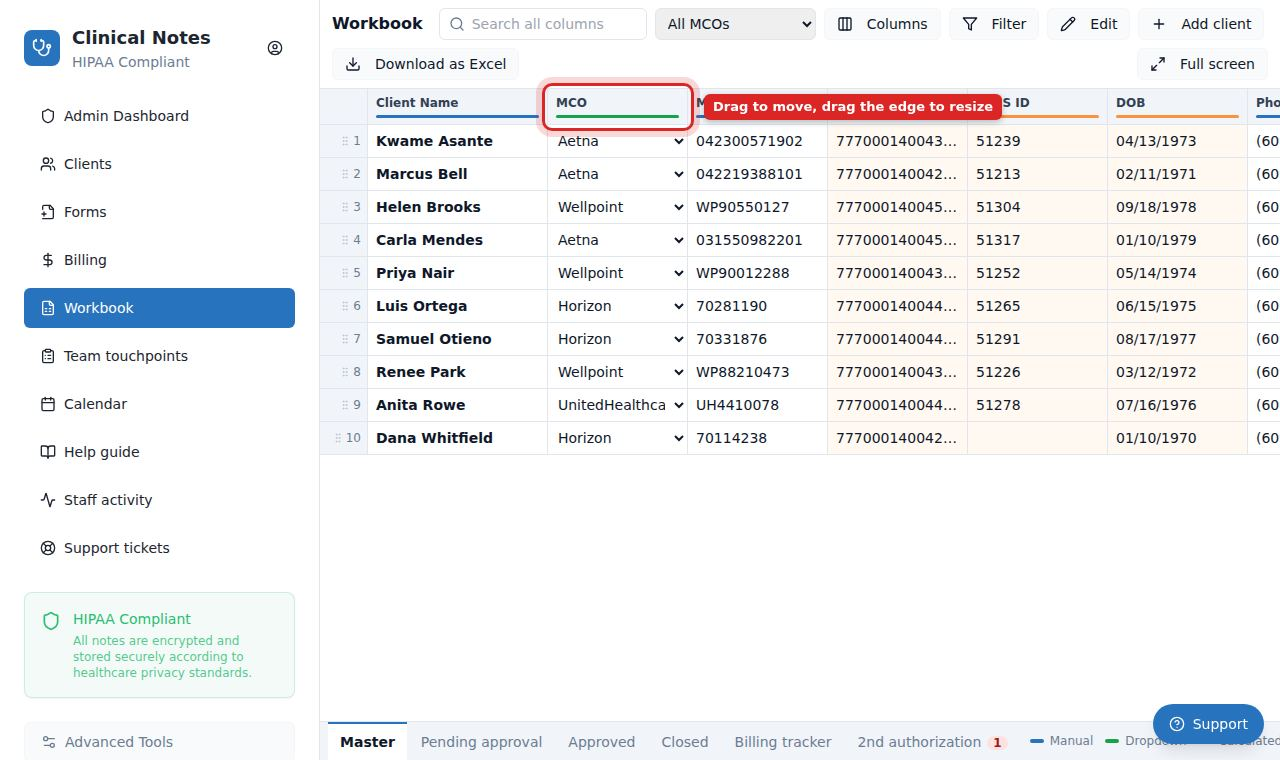
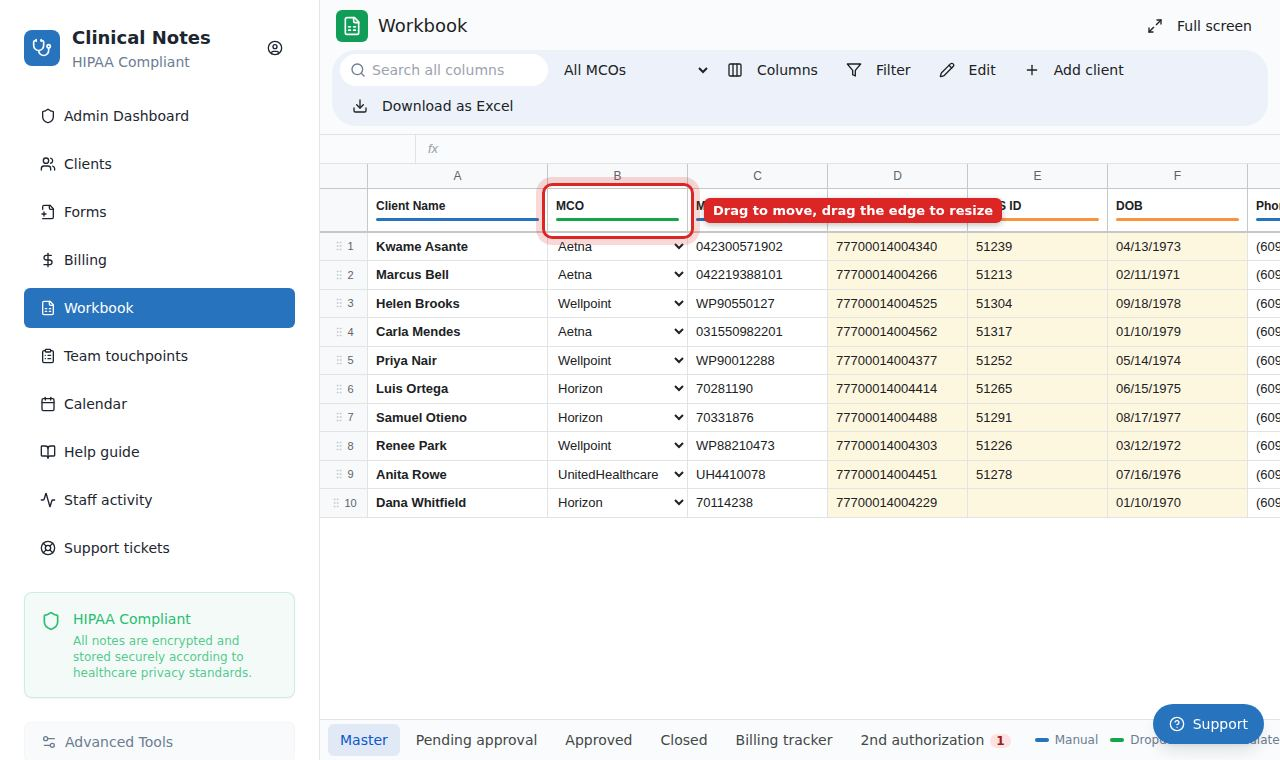
Workbook looks like Google Sheets
Column letters and a grey row-number gutter, thin grey gridlines, Arial
at Sheets' size, a rounded toolbar, a name box and formula bar for the
selected cell, a blue selected-cell outline with its column letter and
row number highlighted, and Sheets-style tabs. Help guide screenshots
retaken.

Claude-Session: https://claude.ai/code/session_012TZTkqWFZbcufo1uEC7hhK

diff --git a/src/components/billing/workbook/BillingWorkbook.tsx b/src/components/billing/workbook/BillingWorkbook.tsx
@@ -17,6 +17,7 @@ import {
   Columns3,
   Download,
   ExternalLink,
+  FileSpreadsheet,
   Filter,
   GripVertical,
   Loader2,
@@ -171,14 +172,14 @@ const Cell: React.FC<{
   const tone = col.kind === 'auto' ? 'text-muted-foreground' : '';
 
   if (col.kind === 'auto' || (!col.field && col.key !== 'name')) {
-    return <div className={`min-h-[32px] truncate px-2 py-1.5 ${tone}`} title={shown(col, value)}>{shown(col, value)}</div>;
+    return <div className={`min-h-[26px] truncate px-2 py-1 ${tone}`} title={shown(col, value)}>{shown(col, value)}</div>;
   }
 
   if (col.kind === 'drop') {
     const options = col.options ?? [];
     return (
       <select
-        className="h-full w-full cursor-pointer bg-transparent px-1.5 py-1.5 outline-none focus:ring-2 focus:ring-inset focus:ring-primary"
+        className="h-full w-full cursor-pointer bg-transparent px-1.5 py-1 outline-none focus:ring-2 focus:ring-inset focus:ring-[#1a73e8]"
         value={value}
         onChange={(e) => onSave(e.target.value)}
         aria-label={col.label}
@@ -198,7 +199,7 @@ const Cell: React.FC<{
     return (
       <button
         type="button"
-        className={`block min-h-[32px] w-full cursor-text truncate px-2 py-1.5 text-left hover:ring-1 hover:ring-inset hover:ring-primary/40 ${tone}`}
+        className={`block min-h-[26px] w-full cursor-cell truncate px-2 py-1 text-left ${tone}`}
         title={`${shown(col, value) || ''}${value ? '\n' : ''}${KIND_TIP[col.kind]}`}
         onClick={() => setEditing(true)}
       >
@@ -215,7 +216,7 @@ const Cell: React.FC<{
     <input
       autoFocus
       type={col.type === 'date' ? 'date' : 'text'}
-      className="h-full w-full bg-white px-2 py-1 outline-none ring-2 ring-inset ring-primary"
+      className="h-full w-full bg-white px-2 py-1 outline-none ring-2 ring-inset ring-[#1a73e8]"
       value={draft}
       onChange={(e) => setDraft(e.target.value)}
       onBlur={commit}
@@ -238,12 +239,36 @@ interface Props {
   onChanged: () => void;
 }
 
+/** Toolbar buttons: flat and round, as in Google Sheets; TOOL_ON marks one that is switched on. */
+const TOOL = 'h-8 rounded-full px-3 hover:bg-[#dde3ea]';
+const TOOL_ON = 'bg-[#c2e7ff] text-[#001d35] hover:bg-[#b3dcf7]';
+
+/** Google Sheets' default cell font. */
+const SHEET_FONT = 'Arial, Helvetica, sans-serif';
+/** Heights of the letters row and the headings row, which both stay put while scrolling. */
+const LETTER_H = 22;
+const HEAD_H = 44;
+
+/** A, B, … Z, AA, AB, … like a spreadsheet's column letters. */
+function columnLetter(i: number): string {
+  let n = i + 1;
+  let out = '';
+  while (n > 0) {
+    const r = (n - 1) % 26;
+    out = String.fromCharCode(65 + r) + out;
+    n = Math.floor((n - 1) / 26);
+  }
+  return out;
+}
+
 /** Stands for an empty cell in a column filter. */
 const BLANK = '__blank__';
 
 export const BillingWorkbook: React.FC<Props> = ({ cycles, onChanged }) => {
   // Its own page beside the left menu, or the whole screen when there is a lot to see.
   const [fullScreen, setFullScreen] = useState(false);
+  // The selected cell, shown in the name box and formula bar.
+  const [active, setActive] = useState<{ row: string; col: string } | null>(null);
   const [clients, setClients] = useState<WbClient[] | null>(null);
   const [secondAuthIds, setSecondAuthIds] = useState<Set<string>>(new Set());
   const [lastContact, setLastContact] = useState<Map<string, string>>(new Map());
@@ -584,15 +609,45 @@ export const BillingWorkbook: React.FC<Props> = ({ cycles, onChanged }) => {
 
   // ---- render --------------------------------------------------------
 
-  const th = 'sticky top-0 z-10 border-b border-r bg-slate-100 px-2 py-1.5 text-left text-xs font-semibold text-slate-700';
-  const td = 'border-b border-r p-0 align-middle';
+  // Google Sheets' look: grey headers and gutter, thin grey gridlines.
+  const th = 'sticky top-0 z-10 border-b border-r border-[#c7c7c7] bg-[#f8f9fa] px-2 py-1 text-left text-xs font-bold text-[#202124]';
+  const td = 'border-b border-r border-[#e2e3e3] p-0 align-middle';
+  const gutter = 'bg-[#f8f9fa] text-center text-[11px] text-[#5f6368]';
+  const picked = 'bg-[#d3e3fd] font-semibold text-[#0b57d0]';
   const us = (v: string | null) => shown({ type: 'date' }, v ?? '');
 
+  // The name box and formula bar: which cell is selected, and what it holds.
+  const activeCol = active ? columns.findIndex((c) => c.key === active.col) : -1;
+  const activeRowIndex = active ? rows.findIndex((c) => c.id === active.row) : -1;
+  const activeRef = activeCol >= 0 && activeRowIndex >= 0 ? `${columnLetter(activeCol)}${activeRowIndex + 1}` : '';
+  const activeValue = (() => {
+    if (!activeRef) return '';
+    const client = rows[activeRowIndex];
+    const col = columns[activeCol];
+    return shown(col, col.value(client, extraOf(client)));
+  })();
+
   const masterGrid = (
-    <table className="border-separate border-spacing-0 text-sm" style={{ tableLayout: 'fixed', width: 'max-content' }}>
+    <table
+      className="border-separate border-spacing-0 text-[13px] text-[#202124]"
+      style={{ tableLayout: 'fixed', width: 'max-content', fontFamily: SHEET_FONT }}
+    >
       <thead>
+        {/* Column letters, as in a spreadsheet. */}
         <tr>
-          <th className={`${th} sticky left-0 z-30 w-[48px] min-w-[48px] max-w-[48px] text-right`} />
+          <th className={`${th} ${gutter} sticky left-0 z-30 w-[48px] min-w-[48px] max-w-[48px] p-0`} style={{ height: LETTER_H }} />
+          {columns.map((col, j) => (
+            <th
+              key={col.key}
+              className={`${th} ${gutter} p-0 font-normal ${col.key === 'name' ? 'sticky left-12 z-20' : ''} ${activeCol === j ? picked : ''}`}
+              style={{ height: LETTER_H }}
+            >
+              {columnLetter(j)}
+            </th>
+          ))}
+        </tr>
+        <tr>
+          <th className={`${th} ${gutter} sticky left-0 z-30 w-[48px] min-w-[48px] max-w-[48px] border-b-2`} style={{ top: LETTER_H, height: HEAD_H }} />
           {columns.map((col) => {
             const w = widthOf(col);
             const isName = col.key === 'name';
@@ -617,8 +672,8 @@ export const BillingWorkbook: React.FC<Props> = ({ cycles, onChanged }) => {
                   setDragOver(null);
                 }}
                 title={`${KIND_TIP[col.kind]}${isName ? '' : '\nDrag to move.'}`}
-                className={`${th} relative ${isName ? 'sticky left-12 z-20' : 'cursor-grab'} ${dragOver === `c:${col.key}` ? 'shadow-[inset_3px_0_0_hsl(var(--primary))]' : ''}`}
-                style={{ width: w, minWidth: w, maxWidth: w }}
+                className={`${th} relative border-b-2 bg-white ${isName ? 'sticky left-12 z-20' : 'cursor-grab'} ${dragOver === `c:${col.key}` ? 'shadow-[inset_3px_0_0_#1a73e8]' : ''}`}
+                style={{ width: w, minWidth: w, maxWidth: w, top: LETTER_H, height: HEAD_H }}
               >
                 <span className="block truncate pr-4">{col.label}</span>
                 <span className={`mt-1 block h-[3px] rounded ${KIND_BAR[col.kind]}`} />
@@ -633,7 +688,7 @@ export const BillingWorkbook: React.FC<Props> = ({ cycles, onChanged }) => {
                   </button>
                 )}
                 <span
-                  className="absolute -right-1 top-0 z-10 h-full w-2 cursor-col-resize hover:bg-primary/40"
+                  className="absolute -right-1 top-0 z-10 h-full w-2 cursor-col-resize hover:bg-[#1a73e8]/50"
                   onPointerDown={(e) => startResize(e, 'col', col.key, w)}
                   title="Drag to resize"
                 />
@@ -643,11 +698,12 @@ export const BillingWorkbook: React.FC<Props> = ({ cycles, onChanged }) => {
         </tr>
         {showFilters && (
           <tr>
-            <th className={`${th} sticky left-0 top-[42px] z-30 bg-white`} />
+            <th className={`${th} sticky left-0 z-30 bg-white`} style={{ top: LETTER_H + HEAD_H }} />
             {columns.map((col) => (
               <th
                 key={col.key}
-                className={`${th} top-[42px] bg-white font-normal ${col.key === 'name' ? 'sticky left-12 z-20' : ''}`}
+                className={`${th} bg-white font-normal ${col.key === 'name' ? 'sticky left-12 z-20' : ''}`}
+                style={{ top: LETTER_H + HEAD_H }}
               >
                 <select
                   className={`w-full rounded border bg-white px-1 py-0.5 text-xs ${filters[col.key] ? 'border-primary font-semibold text-primary' : ''}`}
@@ -686,10 +742,10 @@ export const BillingWorkbook: React.FC<Props> = ({ cycles, onChanged }) => {
                 dragRow.current = null;
                 setDragOver(null);
               }}
-              className={dragOver === `r:${c.id}` ? '[&>td]:shadow-[inset_0_3px_0_hsl(var(--primary))]' : 'hover:bg-sky-50/40'}
+              className={dragOver === `r:${c.id}` ? '[&>td]:shadow-[inset_0_3px_0_#1a73e8]' : ''}
             >
               <td
-                className={`${td} sticky left-0 z-10 w-[48px] min-w-[48px] max-w-[48px] bg-slate-100 text-right text-xs text-muted-foreground`}
+                className={`${td} ${gutter} sticky left-0 z-10 w-[48px] min-w-[48px] max-w-[48px] border-[#c7c7c7] ${active?.row === c.id ? picked : ''}`}
                 draggable={!editMode}
                 onDragStart={() => (dragRow.current = c.id)}
                 onDragEnd={() => {
@@ -698,7 +754,7 @@ export const BillingWorkbook: React.FC<Props> = ({ cycles, onChanged }) => {
                 }}
                 title={editMode ? 'Delete this client' : 'Drag to move this row'}
               >
-                <div className="relative flex h-full items-center justify-end gap-0.5 px-1.5">
+                <div className="relative flex h-full items-center justify-center gap-0.5 px-1.5">
                   {editMode ? (
                     <button
                       className="grid h-5 w-5 place-items-center rounded border border-red-300 bg-red-50 text-red-700"
@@ -709,12 +765,12 @@ export const BillingWorkbook: React.FC<Props> = ({ cycles, onChanged }) => {
                     </button>
                   ) : (
                     <>
-                      <GripVertical className="h-3 w-3 cursor-grab opacity-40" />
+                      <GripVertical className="h-3 w-3 cursor-grab opacity-30" />
                       {i + 1}
                     </>
                   )}
                   <span
-                    className="absolute -bottom-1 left-0 right-0 z-10 h-2 cursor-row-resize hover:bg-primary/40"
+                    className="absolute -bottom-1 left-0 right-0 z-10 h-2 cursor-row-resize hover:bg-[#1a73e8]/50"
                     onPointerDown={(e) => startResize(e, 'row', c.id, (e.currentTarget.closest('tr') as HTMLElement).getBoundingClientRect().height)}
                     title="Drag to resize"
                   />
@@ -723,10 +779,13 @@ export const BillingWorkbook: React.FC<Props> = ({ cycles, onChanged }) => {
               {columns.map((col) => {
                 const w = widthOf(col);
                 const isName = col.key === 'name';
+                const isActive = active?.row === c.id && active.col === col.key;
                 return (
                   <td
                     key={col.key}
-                    className={`${td} ${isName ? 'sticky left-12 z-10 bg-white font-semibold' : col.kind === 'auto' ? 'bg-slate-50' : col.kind === 'docs' ? 'bg-orange-50/70' : ''}`}
+                    onMouseDown={() => setActive({ row: c.id, col: col.key })}
+                    onFocus={() => setActive({ row: c.id, col: col.key })}
+                    className={`${td} ${isName ? 'sticky left-12 z-10 bg-white font-semibold' : col.kind === 'auto' ? 'bg-[#f8f9fa] text-[#5f6368]' : col.kind === 'docs' ? 'bg-[#fef7e0]' : 'bg-white'} ${isActive ? 'relative shadow-[inset_0_0_0_2px_#1a73e8]' : ''}`}
                     style={{ width: w, minWidth: w, maxWidth: w }}
                   >
                     <Cell col={col} value={col.value(c, x)} onSave={(v) => void save(c, col, v)} />
@@ -857,21 +916,38 @@ export const BillingWorkbook: React.FC<Props> = ({ cycles, onChanged }) => {
   const master = !['tracker', 'second'].includes(sheet);
 
   return (
-    <div className={`flex flex-col bg-white text-slate-900 ${fullScreen ? 'fixed inset-0 z-50' : 'h-full'}`}>
+    <div className={`flex flex-col bg-[#f9fbfd] text-[#202124] ${fullScreen ? 'fixed inset-0 z-50' : 'h-full'}`}>
       {/* Toolbar */}
-      <div className="flex flex-wrap items-center gap-2 border-b px-3 py-2">
-        <div className="mr-2 font-semibold">Workbook</div>
+      <div className="shrink-0 border-b border-[#e2e3e3] px-3 pb-2 pt-2.5">
+        <div className="mb-2 flex items-center gap-2.5 px-1">
+          <span className="grid h-8 w-8 place-items-center rounded-md bg-[#0f9d58] text-white">
+            <FileSpreadsheet className="h-5 w-5" />
+          </span>
+          <span className="text-lg text-[#1f1f1f]">Workbook</span>
+          <Button
+            size="sm"
+            variant="ghost"
+            className={`${TOOL} ml-auto ${fullScreen ? TOOL_ON : ''}`}
+            onClick={() => setFullScreen((v) => !v)}
+            title={fullScreen ? 'Exit full screen (Esc)' : 'Full screen'}
+          >
+            {fullScreen ? <Minimize2 className="mr-1.5 h-4 w-4" /> : <Maximize2 className="mr-1.5 h-4 w-4" />}
+            {fullScreen ? 'Exit full screen' : 'Full screen'}
+          </Button>
+        </div>
+        {/* One rounded toolbar, as in Google Sheets. */}
+        <div className="flex flex-wrap items-center gap-1 rounded-3xl bg-[#edf2fa] px-2 py-1">
         <div className="relative">
           <Search className="absolute left-2.5 top-1/2 h-4 w-4 -translate-y-1/2 text-muted-foreground" />
           <input
-            className="h-8 w-52 rounded-md border pl-8 pr-2 text-sm"
+            className="h-8 w-52 rounded-full border-0 bg-white pl-8 pr-3 text-sm outline-none focus:ring-2 focus:ring-[#1a73e8]"
             placeholder="Search all columns"
             aria-label="Search all columns"
             value={query}
             onChange={(e) => setQuery(e.target.value)}
           />
         </div>
-        <select className="h-8 rounded-md border px-2 text-sm" value={mco} onChange={(e) => setMco(e.target.value)} aria-label="Filter by MCO">
+        <select className="h-8 rounded-full border-0 bg-transparent px-2 text-sm hover:bg-[#dde3ea]" value={mco} onChange={(e) => setMco(e.target.value)} aria-label="Filter by MCO">
           <option value="">All MCOs</option>
           {MCO_OPTIONS.map((m) => (
             <option key={m}>{m}</option>
@@ -880,7 +956,7 @@ export const BillingWorkbook: React.FC<Props> = ({ cycles, onChanged }) => {
         {master && (
           <>
             <div className="relative">
-              <Button size="sm" variant="outline" className="h-8" onClick={() => setColumnsOpen((v) => !v)} aria-expanded={columnsOpen}>
+              <Button size="sm" variant="ghost" className={TOOL} onClick={() => setColumnsOpen((v) => !v)} aria-expanded={columnsOpen}>
                 <Columns3 className="mr-1.5 h-4 w-4" />
                 Columns
               </Button>
@@ -925,8 +1001,8 @@ export const BillingWorkbook: React.FC<Props> = ({ cycles, onChanged }) => {
             </div>
             <Button
               size="sm"
-              variant={showFilters ? 'default' : 'outline'}
-              className="h-8"
+              variant="ghost"
+              className={`${TOOL} ${showFilters ? TOOL_ON : ''}`}
               onClick={() => {
                 if (showFilters) setFilters({});
                 setShowFilters((v) => !v);
@@ -935,17 +1011,17 @@ export const BillingWorkbook: React.FC<Props> = ({ cycles, onChanged }) => {
               <Filter className="mr-1.5 h-4 w-4" />
               Filter
             </Button>
-            <Button size="sm" variant={editMode ? 'default' : 'outline'} className="h-8" onClick={() => setEditMode((v) => !v)}>
+            <Button size="sm" variant="ghost" className={`${TOOL} ${editMode ? TOOL_ON : ''}`} onClick={() => setEditMode((v) => !v)}>
               {editMode ? <Check className="mr-1.5 h-4 w-4" /> : <Pencil className="mr-1.5 h-4 w-4" />}
               {editMode ? 'Done editing' : 'Edit'}
             </Button>
-            <Button size="sm" variant="outline" className="h-8" onClick={() => void addClient()}>
+            <Button size="sm" variant="ghost" className={TOOL} onClick={() => void addClient()}>
               <Plus className="mr-1.5 h-4 w-4" />
               Add client
             </Button>
           </>
         )}
-        <Button size="sm" variant="outline" className="h-8" onClick={download} disabled={!clients}>
+        <Button size="sm" variant="ghost" className={TOOL} onClick={download} disabled={!clients}>
           <Download className="mr-1.5 h-4 w-4" />
           Download as Excel
         </Button>
@@ -955,16 +1031,14 @@ export const BillingWorkbook: React.FC<Props> = ({ cycles, onChanged }) => {
             Saving
           </span>
         )}
-        <Button
-          size="sm"
-          variant={fullScreen ? 'default' : 'outline'}
-          className="ml-auto h-8"
-          onClick={() => setFullScreen((v) => !v)}
-          title={fullScreen ? 'Exit full screen (Esc)' : 'Full screen'}
-        >
-          {fullScreen ? <Minimize2 className="mr-1.5 h-4 w-4" /> : <Maximize2 className="mr-1.5 h-4 w-4" />}
-          {fullScreen ? 'Exit full screen' : 'Full screen'}
-        </Button>
+        </div>
+      </div>
+
+      {/* Name box and formula bar: the selected cell and what it holds. */}
+      <div className="flex shrink-0 items-center border-b border-[#e2e3e3] text-[13px]" style={{ fontFamily: SHEET_FONT }}>
+        <div className="w-24 shrink-0 border-r border-[#e2e3e3] px-3 py-1 text-[#444746]">{activeRef || '\u00a0'}</div>
+        <div className="px-3 py-1 italic text-[#9aa0a6]">fx</div>
+        <div className="min-w-0 flex-1 truncate py-1 pr-3 text-[#202124]">{activeValue}</div>
       </div>
 
       {sheet === 'tracker' && (
@@ -979,7 +1053,7 @@ export const BillingWorkbook: React.FC<Props> = ({ cycles, onChanged }) => {
       )}
 
       {/* Grid */}
-      <div className="min-h-0 flex-1 overflow-auto" onClick={() => columnsOpen && setColumnsOpen(false)}>
+      <div className="min-h-0 flex-1 overflow-auto bg-white" onClick={() => columnsOpen && setColumnsOpen(false)}>
         {clients === null ? (
           <div className="flex items-center gap-2 p-6 text-sm text-muted-foreground">
             <Loader2 className="h-4 w-4 animate-spin" />
@@ -995,13 +1069,13 @@ export const BillingWorkbook: React.FC<Props> = ({ cycles, onChanged }) => {
       </div>
 
       {/* Tabs, along the bottom like a spreadsheet. Double-click to rename. */}
-      <div className="flex shrink-0 gap-0.5 overflow-x-auto border-t bg-slate-100 px-2" role="tablist" aria-label="Workbook tabs">
+      <div className="flex shrink-0 items-center gap-1 overflow-x-auto border-t border-[#e2e3e3] bg-[#f9fbfd] px-2 py-1" role="tablist" aria-label="Workbook tabs">
         {SHEETS.map((s) =>
           renaming === s.key ? (
             <input
               key={s.key}
               autoFocus
-              className="my-1 w-40 rounded border border-primary px-2 text-sm"
+              className="w-40 rounded-md border border-[#1a73e8] px-2 py-1 text-sm"
               defaultValue={sheetName(s.key)}
               aria-label="Rename tab"
               onFocus={(e) => e.currentTarget.select()}
@@ -1023,7 +1097,7 @@ export const BillingWorkbook: React.FC<Props> = ({ cycles, onChanged }) => {
               title="Double-click to rename"
               onClick={() => setSheet(s.key)}
               onDoubleClick={() => setRenaming(s.key)}
-              className={`whitespace-nowrap border-t-2 px-3 py-2 text-sm ${sheet === s.key ? 'border-primary bg-white font-semibold' : 'border-transparent text-muted-foreground hover:text-foreground'}`}
+              className={`whitespace-nowrap rounded-md px-3 py-1.5 text-sm ${sheet === s.key ? 'bg-[#e1e9f7] font-medium text-[#0b57d0]' : 'text-[#444746] hover:bg-[#eceff4]'}`}
             >
               {sheetName(s.key)}
               {s.key === 'second' && lapsed.length > 0 && (
